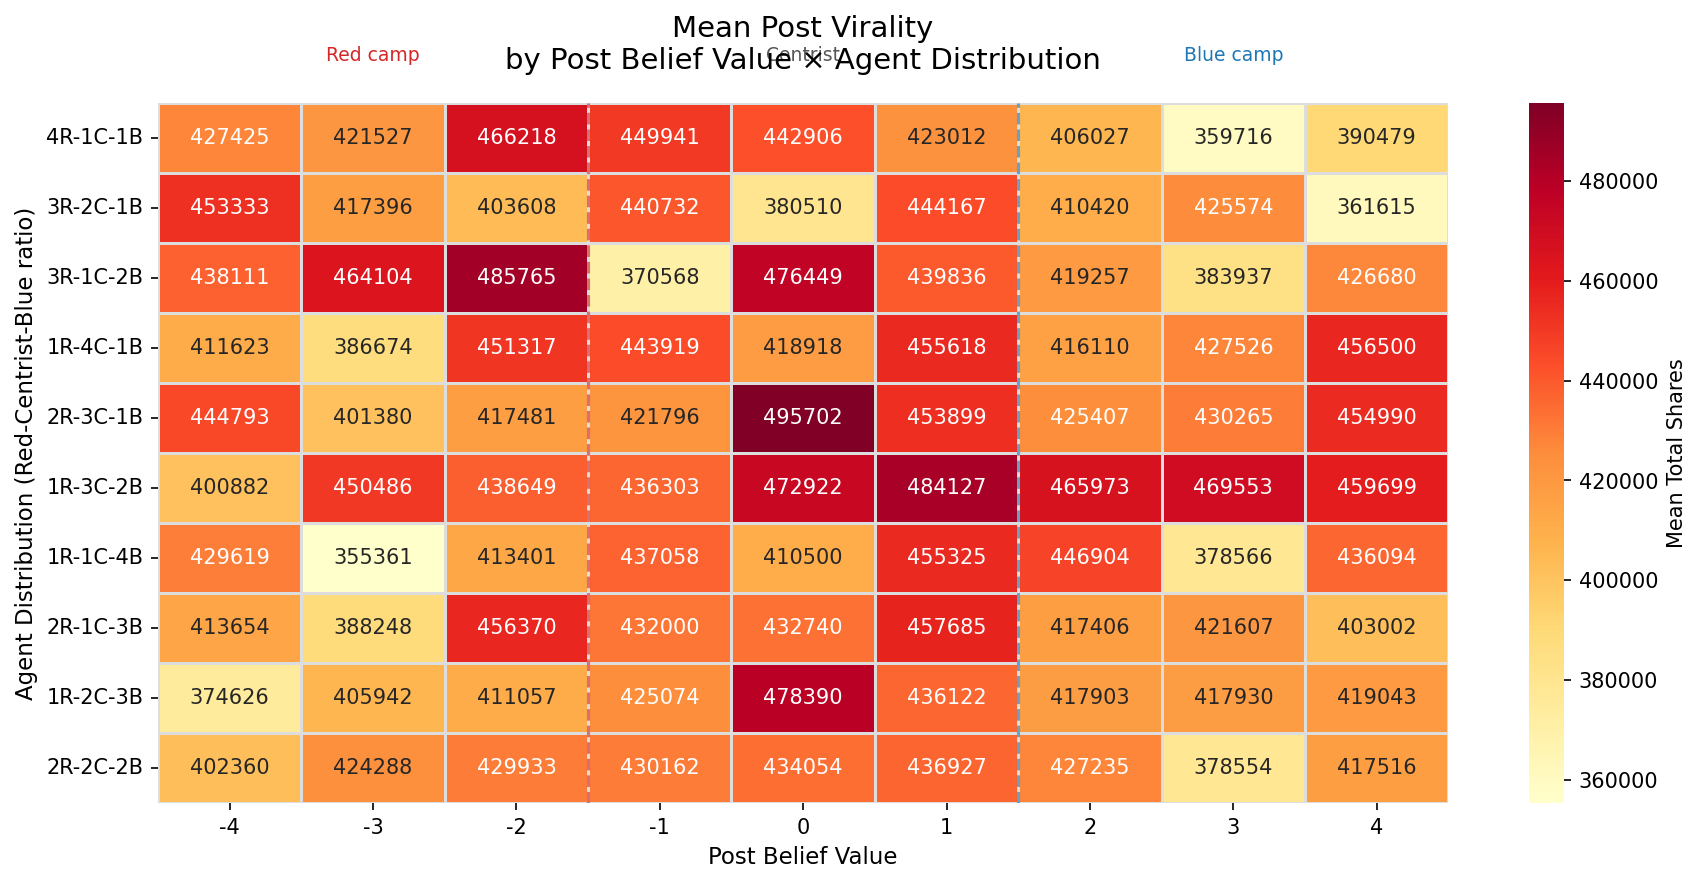
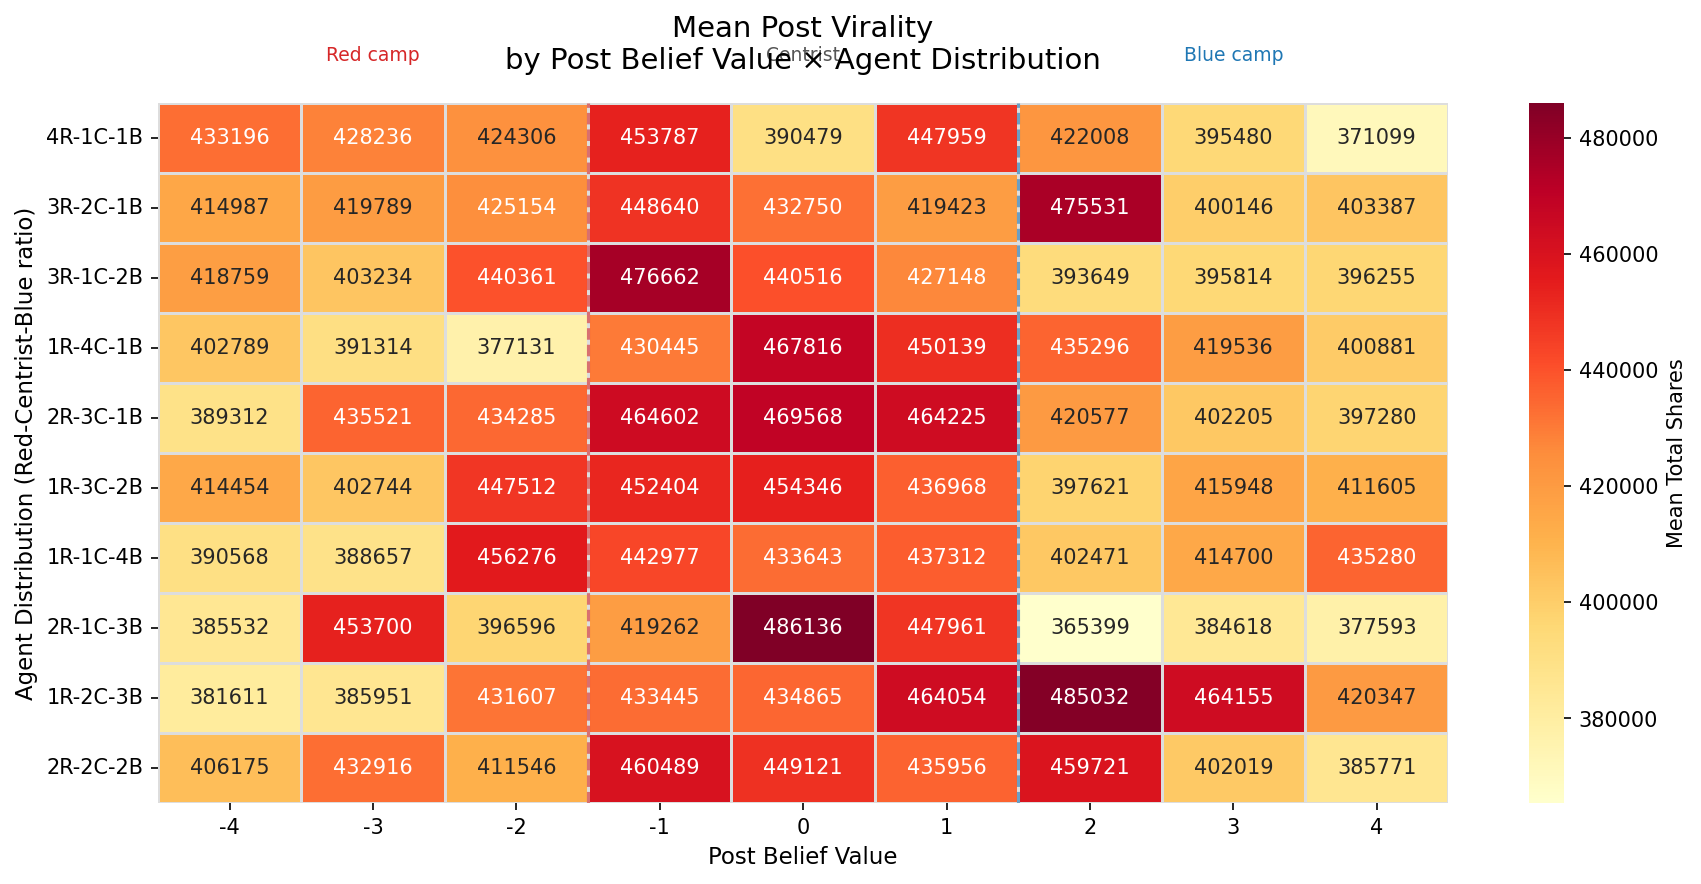
updated final analysis results

diff --git a/Tester.py b/Tester.py
@@ -4,8 +4,7 @@ import Constants
 
 INPUT_FOLDER = "input"
 SCRIPT_NAME = "Main.py"
-# SEEDS = list(range(100))
-SEEDS = [0]
+SEEDS = list(range(30))
 INPUT_CONFIG_PREFIX = "hyp8"
 
 def main():
